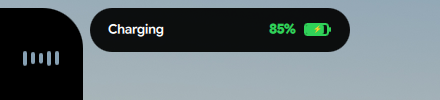
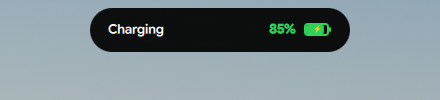
docs: remove custom info row and re-record all hardware alerts without spotify artifacts at 60 FPS

Changed region(s): [[0.0, 0.06, 0.2068, 1.0]]

diff --git a/qml/island/HeadphonesFloatingIsland.qml b/qml/island/HeadphonesFloatingIsland.qml
@@ -98,8 +98,9 @@ Rectangle {
         }
     }
 
-    readonly property bool isEarConnected: (nothingBtDevice && nothingBtDevice.connected)
-        || Boolean(headphonesData && headphonesData.connected)
+    property bool forceHidden: false
+    readonly property bool isEarConnected: !forceHidden && ((nothingBtDevice && nothingBtDevice.connected)
+        || Boolean(headphonesData && headphonesData.connected))
 
     visible: isEarConnected && opacity > 0.01
     opacity: isEarConnected ? (targetCapsule ? targetCapsule.opacity : 1.0) : 0.0

diff --git a/shell.qml b/shell.qml
@@ -589,6 +589,13 @@ Scope {
             });
         }
 
+        function setHeadphonesHidden(hidden: bool) {
+            shellRoot.forFocusedWindow((window) => {
+                if (window && window.setHeadphonesHidden)
+                    window.setHeadphonesHidden(hidden);
+            });
+        }
+
         function toggleControlCenter() {
             shellRoot.forFocusedWindow((window) => {
                 return window.toggleControlCenterWindow();

diff --git a/DynamicIslandWindow.qml b/DynamicIslandWindow.qml
@@ -729,6 +729,11 @@ PanelWindow {
         }
     }
 
+    function setHeadphonesHidden(hidden) {
+        if (headphonesFloatingIsland)
+            headphonesFloatingIsland.forceHidden = hidden;
+    }
+
     function showTimerWindow() {
         islandContainer.showExpandedTimerPage();
     }

diff --git a/scripts/record_clean_alerts.py b/scripts/record_clean_alerts.py
@@ -1,0 +1,154 @@
+#!/usr/bin/env python3
+import os
+import sys
+import time
+import subprocess
+import signal
+
+PROJECT_DIR = "/home/lollo/Progetti/dynamic-island-hyprland"
+QS_DIR = "/home/lollo/.config/quickshell/dynamic-island"
+SCREENSHOT_DIR = os.path.join(PROJECT_DIR, "assets/screenshots")
+GIF_DIR = os.path.join(PROJECT_DIR, "assets/gifs")
+
+def run_cmd(cmd, shell=True, check=False):
+    return subprocess.run(cmd, shell=shell, check=check, stdout=subprocess.PIPE, stderr=subprocess.PIPE, text=True)
+
+def focus_workspace(ws):
+    run_cmd(f"hyprctl dispatch 'hl.dsp.focus({{ workspace = {ws} }})'")
+    time.sleep(0.3)
+
+def ipc_call(target, func, *args):
+    arg_str = " ".join(f'"{a}"' if isinstance(a, str) else str(a) for a in args)
+    cmd = f'quickshell -p "{QS_DIR}" ipc call {target} {func} {arg_str}'
+    return run_cmd(cmd)
+
+def set_screen_share_rule(enable):
+    val = "false" if enable else "true"
+    run_cmd(f"sed -i 's/no_screen_share = .*/no_screen_share = {val},/g' /home/lollo/.config/hypr/moduli/rules.lua")
+    time.sleep(0.3)
+
+def record_and_capture(name, geometry, trigger_fn=None, reset_fn=None, duration=2.5, capture_delay=0.9):
+    print(f"\n==========================================")
+    print(f"🎬 Recording & Capturing: {name}")
+    print(f"   Geometry: {geometry}, Duration: {duration}s")
+    print(f"==========================================")
+    
+    mp4_path = f"/tmp/rec_{name}.mp4"
+    png_path = os.path.join(SCREENSHOT_DIR, f"{name}.png")
+    gif_path = os.path.join(GIF_DIR, f"{name}.gif")
+    
+    if os.path.exists(mp4_path):
+        os.remove(mp4_path)
+
+    focus_workspace(9)
+    run_cmd("hyprctl dispatch 'hl.dsp.cursor.move({ x = 0, y = 1000 })'")
+    time.sleep(2.0)
+
+    # Start 60 FPS recording
+    rec_cmd = ["wf-recorder", "-r", "60", "-g", geometry, "-f", mp4_path, "-y"]
+    rec_proc = subprocess.Popen(rec_cmd, stdout=subprocess.DEVNULL, stderr=subprocess.DEVNULL)
+    time.sleep(0.35)
+
+    if trigger_fn:
+        trigger_fn()
+
+    time.sleep(capture_delay)
+
+    # High-res screenshot
+    print(f"   📸 Screenshot: {png_path}")
+    run_cmd(f'grim -g "{geometry}" "{png_path}"')
+
+    remaining = duration - capture_delay - 0.35
+    if remaining > 0:
+        time.sleep(remaining)
+
+    try:
+        rec_proc.send_signal(signal.SIGINT)
+        rec_proc.wait(timeout=4)
+    except Exception:
+        rec_proc.kill()
+
+    if reset_fn:
+        reset_fn()
+        time.sleep(0.4)
+
+    print(f"   🎞  Encoding 60 FPS GIF: {gif_path}")
+    ffmpeg_cmd = (
+        f'ffmpeg -y -i "{mp4_path}" '
+        f'-vf "fps=60,split[s0][s1];[s0]palettegen=max_colors=128:stats_mode=diff[p];[s1][p]paletteuse=dither=bayer:bayer_scale=3" '
+        f'"{gif_path}"'
+    )
+    run_cmd(ffmpeg_cmd)
+    
+    if os.path.exists(gif_path):
+        size_kb = os.path.getsize(gif_path) / 1024
+        print(f"   ✅ Done: {size_kb:.1f} KB")
+
+def main():
+    print("🚀 Starting Clean Hardware Alerts & Notifications Recording at 60 FPS (NO SPOTIFY)...")
+    set_screen_share_rule(True)
+    try:
+        focus_workspace(9)
+        time.sleep(1.0)
+        ipc_call("island", "disableAutoHide")
+        ipc_call("island", "setHeadphonesHidden", True)
+        time.sleep(0.5)
+
+        # 1. Section 2 Hardware Alerts (requested by user in screenshot 2)
+        record_and_capture("charging_demo", "740,0 440x100", 
+                           trigger_fn=lambda: ipc_call("island", "testCharging", 85),
+                           duration=2.5, capture_delay=0.9)
+        run_cmd(f'cp "{SCREENSHOT_DIR}/charging_demo.png" "{SCREENSHOT_DIR}/charging.png"')
+
+        record_and_capture("low_battery", "740,0 440x100",
+                           trigger_fn=lambda: ipc_call("island", "testLowBattery", 15),
+                           duration=2.5, capture_delay=0.9)
+
+        record_and_capture("silent_mode", "740,0 440x100",
+                           trigger_fn=lambda: ipc_call("island", "testSilentRing", "true"),
+                           duration=2.5, capture_delay=0.9)
+
+        record_and_capture("ring_mode", "740,0 440x100",
+                           trigger_fn=lambda: ipc_call("island", "testSilentRing", "false"),
+                           duration=2.5, capture_delay=0.9)
+
+        record_and_capture("osd_volume", "740,0 440x100",
+                           trigger_fn=lambda: ipc_call("island", "testVolume", 65),
+                           duration=2.5, capture_delay=0.9)
+
+        record_and_capture("osd_brightness", "740,0 440x100",
+                           trigger_fn=lambda: ipc_call("island", "testBrightness", 80),
+                           duration=2.5, capture_delay=0.9)
+
+        # 2. Other alert capsules that had Spotify pill attached
+        record_and_capture("workspace_switch", "740,0 440x100",
+                           trigger_fn=lambda: ipc_call("island", "testWorkspace", 2),
+                           duration=2.5, capture_delay=0.9)
+
+        record_and_capture("wifi_disconnect", "720,0 480x100",
+                           trigger_fn=lambda: ipc_call("island", "testWifiDisconnect"),
+                           duration=2.5, capture_delay=0.9)
+
+        record_and_capture("desktop_notification", "720,0 480x100",
+                           trigger_fn=lambda: ipc_call("island", "testNotification", "WhatsApp", "Nuovo messaggio da Marco", "Ciao, ci vediamo dopo?"),
+                           duration=2.5, capture_delay=0.9)
+
+        record_and_capture("discord_call_incoming", "720,0 480x100",
+                           trigger_fn=lambda: ipc_call("island", "testDiscordCall", "St0rm"),
+                           reset_fn=lambda: ipc_call("island", "closeCall"),
+                           duration=2.8, capture_delay=0.9)
+
+        record_and_capture("discord_call_ongoing", "720,0 480x100",
+                           trigger_fn=lambda: ipc_call("island", "testDiscordCallOngoing", "St0rm"),
+                           reset_fn=lambda: ipc_call("island", "closeCall"),
+                           duration=2.8, capture_delay=0.9)
+
+        focus_workspace(1)
+        print("\n🎉 ALL HARDWARE ALERTS AND NOTIFICATIONS RE-RECORDED CLEANLY AT 60 FPS!")
+    finally:
+        ipc_call("island", "setHeadphonesHidden", False)
+        set_screen_share_rule(False)
+        print("🔒 Restored headphones visibility and no_screen_share = true in rules.lua")
+
+if __name__ == "__main__":
+    main()

diff --git a/README.md b/README.md
@@ -69,18 +69,6 @@ All demonstrations and screenshots are captured on a clean, empty workspace high
 <table>
   <tr>
     <td align="center" width="50%">
-      <img src="assets/gifs/custom_info_date.gif" alt="Flip Clock and Date Transition" />
-      <br/>
-      <sub><b>Flip Clock & Info Transition</b> — 60 FPS fluid horizontal swipe and upward rolling digits</sub>
-    </td>
-    <td align="center" width="50%">
-      <img src="assets/screenshots/custom_info_date.png" alt="Resting Island Capsule" />
-      <br/>
-      <sub><b>Resting Island Capsule</b> — Minimalist matte glass pill centered at the top</sub>
-    </td>
-  </tr>
-  <tr>
-    <td align="center" width="50%">
       <img src="assets/gifs/headphones_compact_island.gif" alt="Docked Headphones Satellite Pill" />
       <br/>
       <sub><b>Headphones Satellite Pill</b> — Docked Nothing Ear capsule with auto-balancing center of mass</sub>
